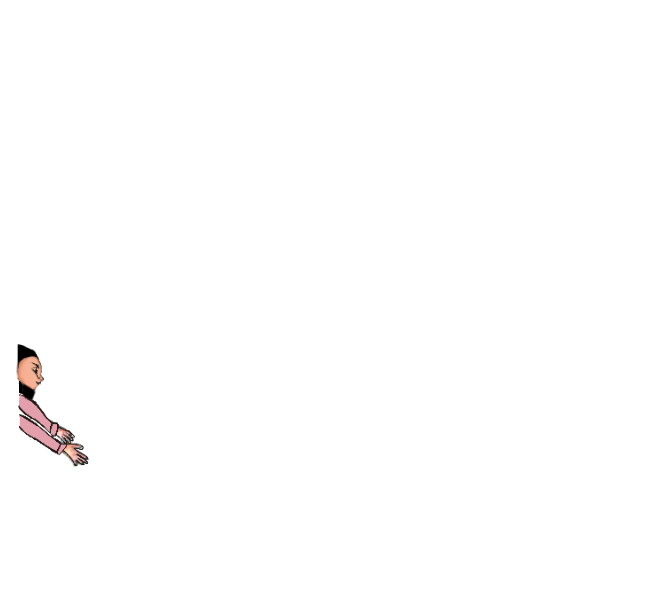
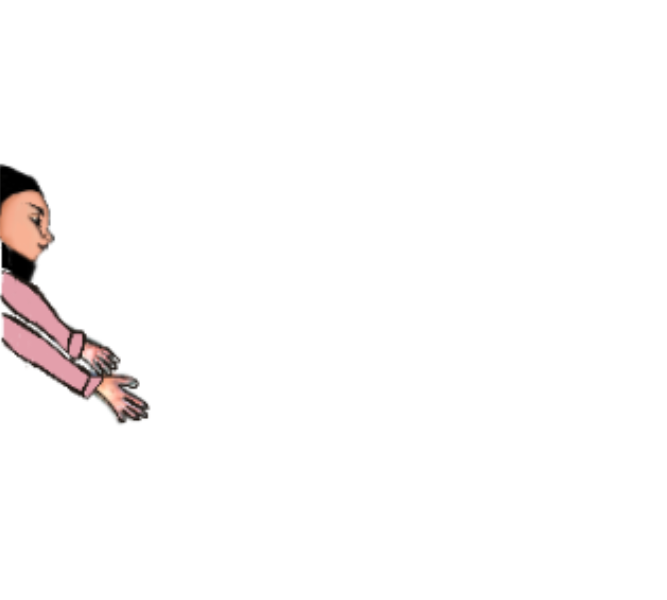
commmit before pull

Changed region(s): [[0.0, 0.27, 0.2399, 0.78]]

diff --git a/src/scenes/Play.js b/src/scenes/Play.js
@@ -11,6 +11,7 @@ class Play extends Phaser.Scene {
         // UI
         this.load.image('lives', 'assets/img/kr_lives_red.png');
         this.load.image('score', 'assets/img/kr_score_red.png');
+        this.load.image('human', 'assets/img/story1.png');
 
         // general
         this.load.image('wall', 'assets/img/kittyrun_prop_wall.png');
@@ -67,6 +68,10 @@ class Play extends Phaser.Scene {
         this.song = this.sound.add('music', {volume: 0.5, loop: true});
         this.song.play(); // this music kinda annoying so uncomment for now XD
 
+        // human
+        this.human = this.add.sprite(game.config.width / 6 - 5, game.config.height / 2, "human");
+        this.human.alpha = 0;
+
         let popupConfig = {
             fontFamily: 'Times New Roman',
             fontSize: '64px',
@@ -104,7 +109,8 @@ class Play extends Phaser.Scene {
 
         // display lives
         this.add.sprite(borderUISize, borderPadding, "lives");
-        this.displayLives = this.add.text(borderUISize + 10, borderPadding / 2, lives, scoreConfig)
+        this.displayLives = this.add.text(borderUISize + 10, borderPadding / 2, lives, scoreConfig);
+
 
         // display score
         this.add.sprite(game.config.width - borderUISize, borderPadding, "score");
@@ -541,6 +547,7 @@ class Play extends Phaser.Scene {
         if (lives < 1) {
             this.gameover = true;
             this.song.mute = true;
+            this.frt.paused = true;
             // this.sound.play('game_over'); // PLAY THIS ON NEXT SCENE
             // go to end screen scene
         }
@@ -574,6 +581,7 @@ class Play extends Phaser.Scene {
                     lives += element.value;
                     if (element.value) {
                         this.sound.play('lose_life');
+                        this.humanAppear();
                     }
                     element.collide();
                 }
@@ -742,5 +750,16 @@ class Play extends Phaser.Scene {
             return true;
         }
         return false;
+    }
+
+    humanAppear() {
+        console.log("human appear");
+        this.human.alpha = 1;
+        setTimeout(this.humanDisappear, 500);
+    }
+
+    humanDisappear() {
+        console.log("human disappear");
+        this.human.alpha = 1;
     }
 }
